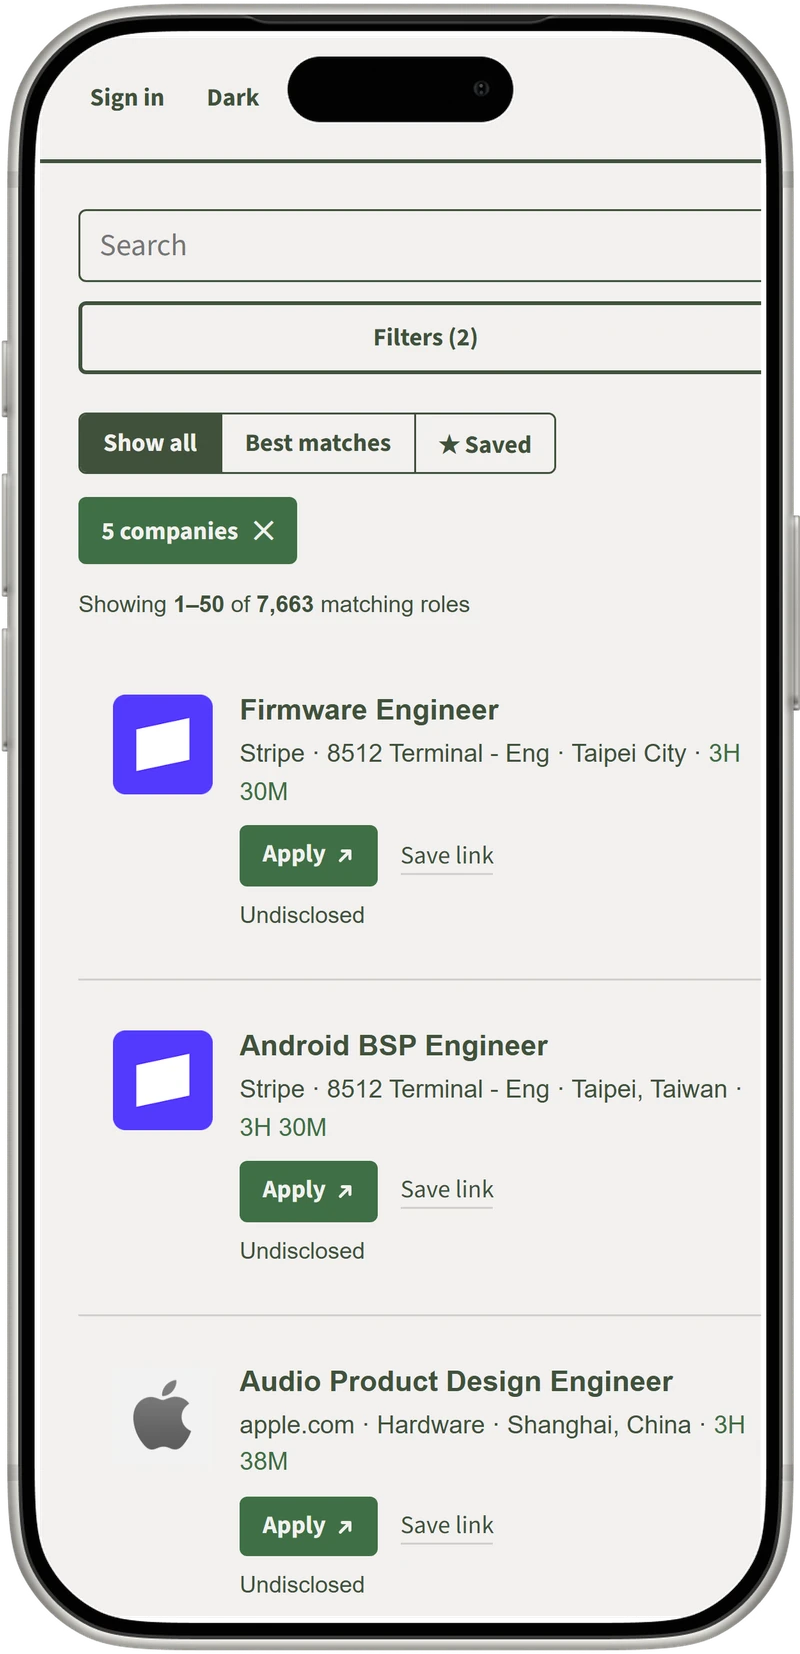
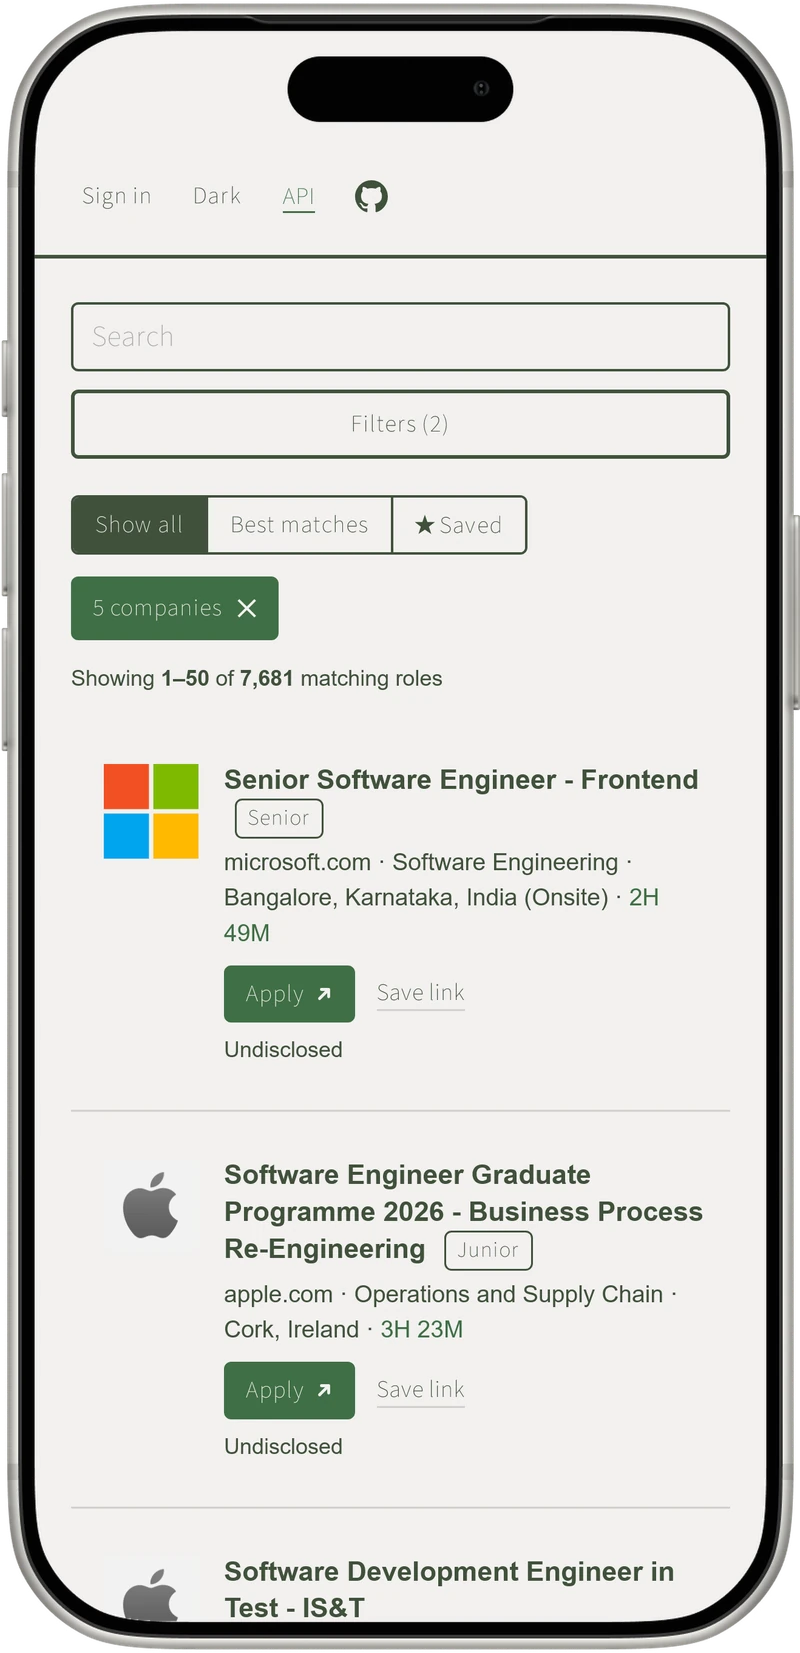
Fit the phone shot to the glass it sits in
The board picture inside the iPhone on /hero was cut off down its right
edge. The search box lost its border, "Filters (2)" ran out of its box,
and the count line was sheared off mid-sentence.

The capture and the hole disagreed about shape. The frame's screen hole
is 804x1748, aspect 0.45995, which is exactly twice an iPhone 16 Pro
screen at 402x874: the frame was drawn to a real iPhone. The capture was
402x824, aspect 0.4879, so compositing fitted the wider picture the only
way it could, by cropping it. Shooting a real iPhone viewport in WebKit
at deviceScaleFactor 3 makes the two agree, and nothing is left over.

Two further faults surfaced once the shape was right, both visible only
by looking at the render rather than by measuring it. A rectangular paste
fills the hole's bounding box, and above the phone's rounded shoulders
that box is outside the phone, which left pale squares there. The board
is masked to the glass now, with the mask taken from the frame's own
alpha so it carries the real corner radius. And pasting the page at the
very top of the glass buried the topbar's API link and GitHub mark under
the Dynamic Island, which is not what a phone does: Safari gives the page
the room below the status bar. The page is shot at 402x815 and the status
strip is painted in the page's own paper, so the island sits on paper the
way it does on a real device.

The capture also has to wait for real rows rather than for the status
[…]

diff --git a/frontend/style.css b/frontend/style.css
@@ -3499,7 +3499,10 @@ body.explore-busy .explore-metric { color: var(--green-text); }
   .showcase-device {
     width: min(300px, 78%);
     height: clamp(300px, 80vw, 420px);
-    background-image: url("/img/device-iphone.webp");
+    /* The query string is bumped whenever the composite is re-exported.
+       The deploy stamps only the .js and .css the HTML names, so without
+       it the CDN and the reader's browser keep serving the old picture. */
+    background-image: url("/img/device-iphone.webp?v=2");
   }
 }
 
